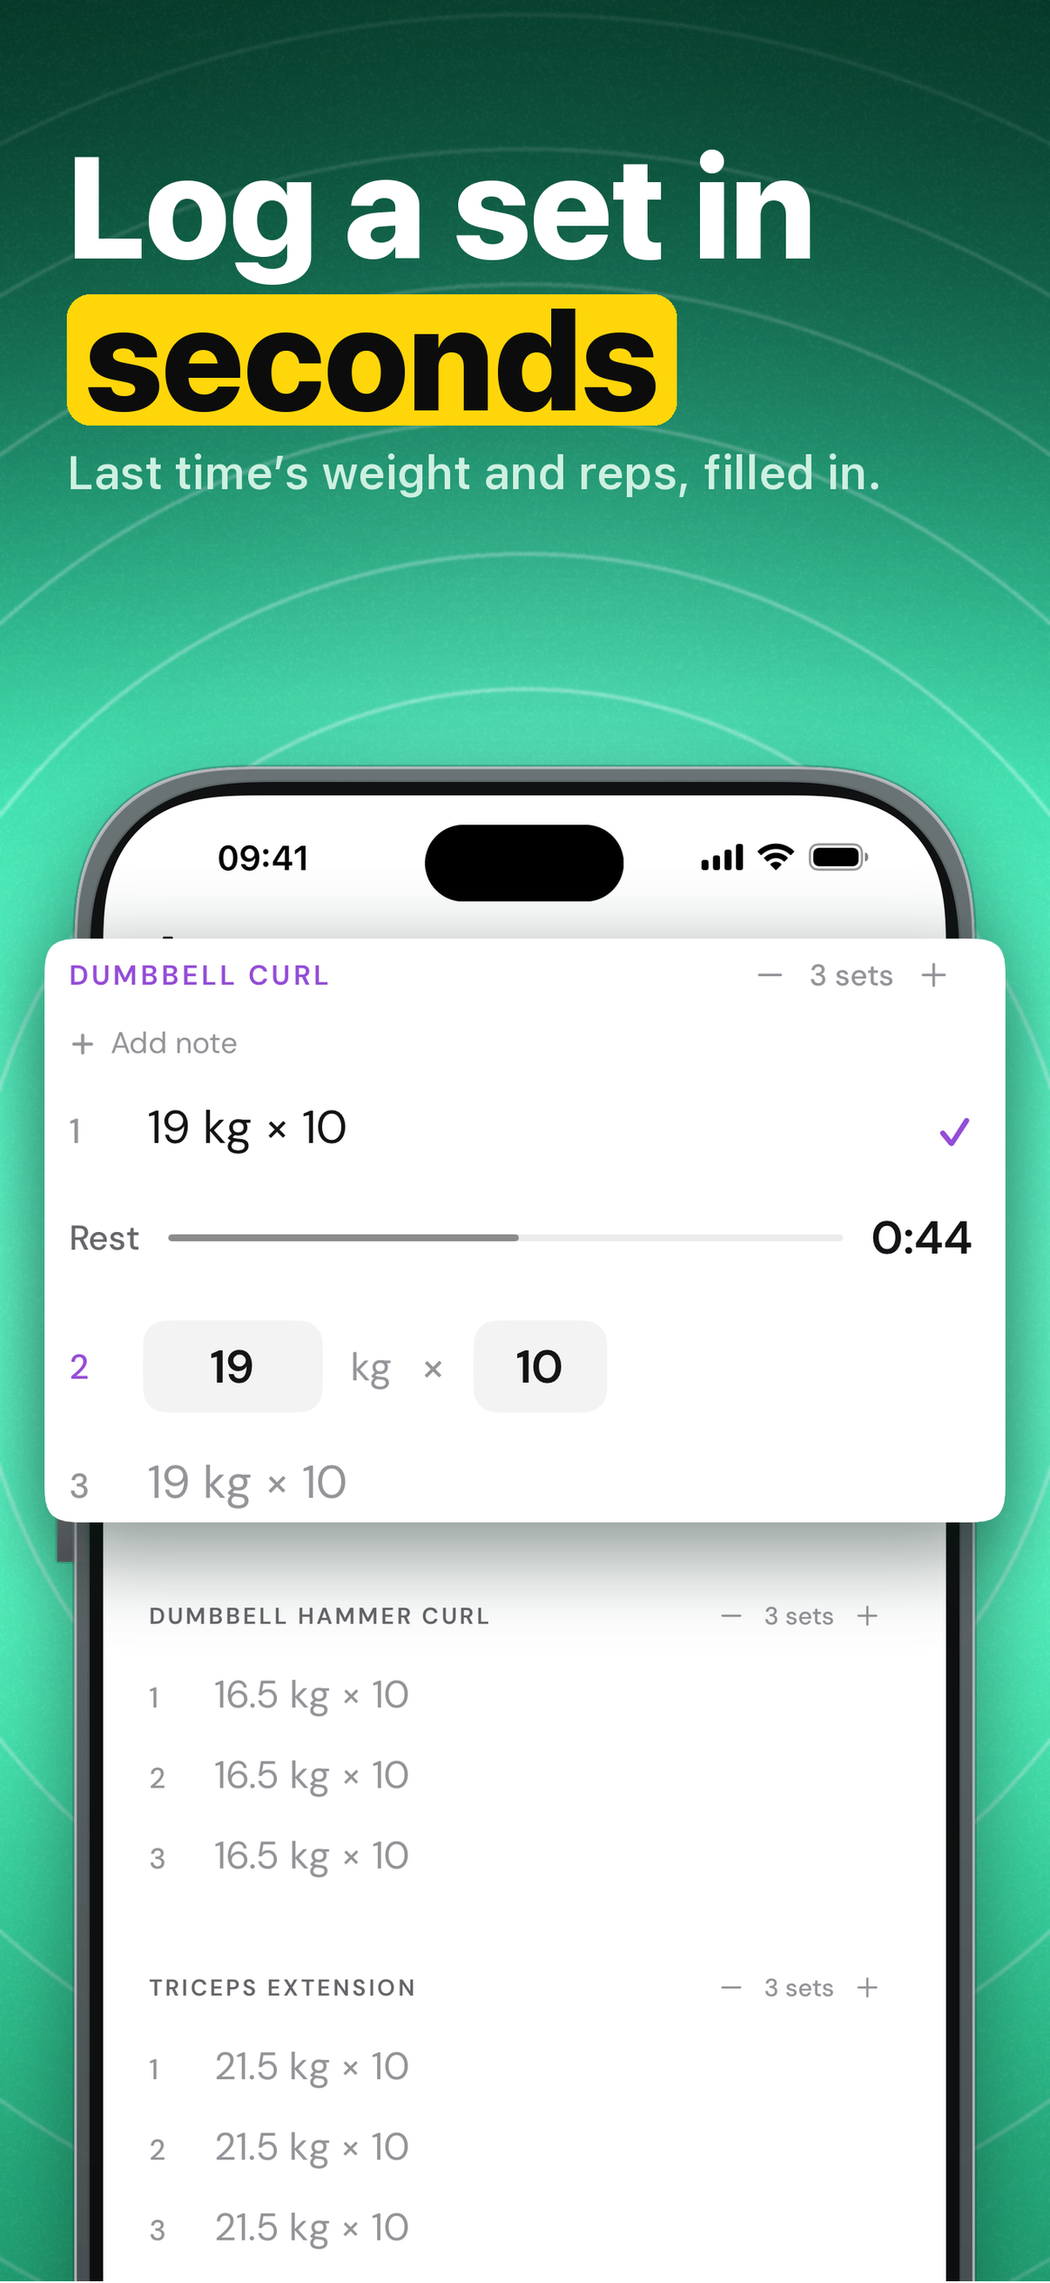
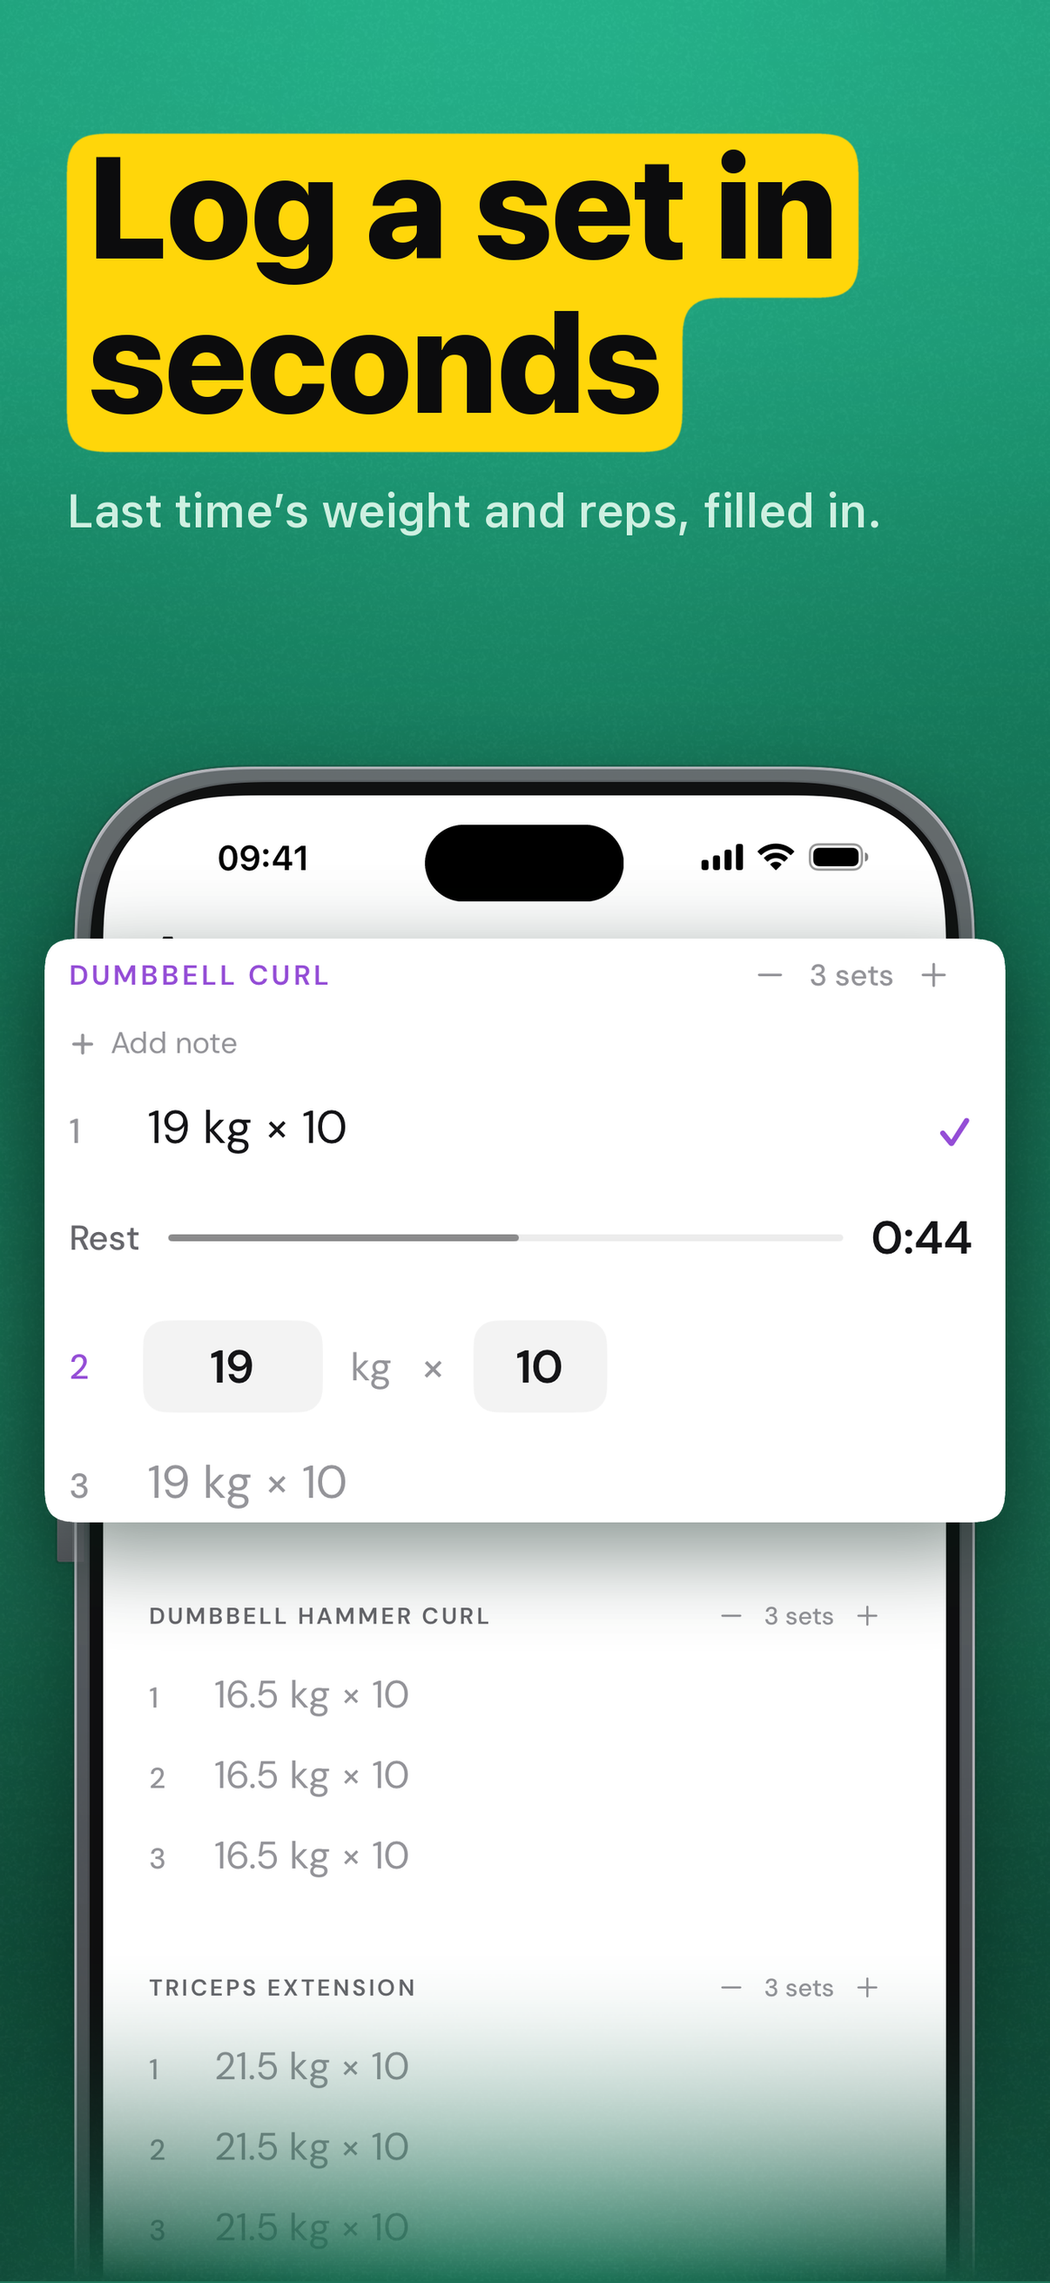
App Store screenshots: studio stage, one-shape headline, full phones
From the user's review of the emerald set:
- The background is a studio-lit emerald (soft light from above, haze,
  a floor glow, darker corners) and each phone rises out of an emerald
  mist at the foot. The glow's pulse rings are gone ("low effort and
  sloppy"); the best sets (Opal, Liftoff, Ladder, Hevy) use no lines.
- The whole headline sits in black on one yellow shape, its lines
  merged into a single rounded polygon like TikTok's caption
  background (--highlight word keeps the one-word box).
- Every slide shows the whole iPhone: slide 1 puts the real Home Screen
  in the phone with the shield below, slide 4 the app picker.
- Comparison sheets for the highlight choice in screenshots/store-options.

Not uploaded to App Store Connect.

diff --git a/scripts/store-slides.py b/scripts/store-slides.py
@@ -85,6 +85,8 @@ def _wrap(draw, text, f, max_w=TEXT_W):
 def fitted_size(text, size=204, min_size=150, lines=2):
     """The largest headline size (in 4-px steps) that sets `text` in `lines` lines inside the margins."""
     draw = ImageDraw.Draw(Image.new("RGB", (8, 8)))
+    if HIGHLIGHT == "all":
+        text = " ".join("*" + w.replace("*", "") + "*" for w in text.split(" ") if w)
     s = size
     while s >= min_size:
         f = k.sf(s, weight=820)
@@ -96,12 +98,17 @@ def fitted_size(text, size=204, min_size=150, lines=2):
 
 
 HEAD_SIZE = None  # set in main(): one size for the whole set, the largest every headline fits
+HIGHLIGHT = "all"  # the whole headline on one yellow shape (the user, 9 Nov 2026); "word" boxes one word (--highlight word)
 
 
 def headline(canvas, text, y, size=None, min_size=150, align="left", lines=2):
     """White display type with *accent* words set in a paper box (consecutive accent words share one
     box, which sits inside the margins and clear of its neighbours). Returns the bottom y."""
     draw = ImageDraw.Draw(canvas)
+    whole = HIGHLIGHT == "all"
+    if whole:
+        # Every line in its own yellow box, like TikTok's caption style.
+        text = " ".join("*" + w.replace("*", "") + "*" if w != "\n" else w for w in text.replace("\n", " \n ").split(" ") if w)
     s = size or HEAD_SIZE or 200
     while True:
         f = k.sf(s, weight=820)
@@ -111,10 +118,14 @@ def headline(canvas, text, y, size=None, min_size=150, align="left", lines=2):
         s -= 4
         if s < min_size:
             raise ValueError(f"{text!r} doesn't fit in {lines} lines")
-    lh = round(f.size * 1.06)
+    lh = round(f.size * (1.08 if whole else 1.06))
     space = draw.textlength(" ", font=f)
     padx, pady = round(f.size * 0.13), round(f.size * 0.10)
     cap_top, base = f.getbbox("H")[1], f.getbbox("H")[3]
+    if whole:
+        return _headline_block(canvas, rows, y, f, lh, space, cap_top, base, align)
+    top_pad, bottom_pad = pady, pady
+    last_bottom = y
     cy = y
     for words in rows:
         lw = _line_width(draw, words, f)
@@ -135,15 +146,57 @@ def headline(canvas, text, y, size=None, min_size=150, align="left", lines=2):
                 j = i
                 while j + 1 < len(xs) and xs[j + 1][2]:
                     j += 1
-                box = (xs[i][0] - padx, cy + cap_top - pady, xs[j][1] + padx, cy + base + pady)
-                draw.rounded_rectangle(box, round(f.size * 0.16), fill=YELLOW)
+                box = (xs[i][0] - padx, cy + cap_top - top_pad, xs[j][1] + padx, cy + base + bottom_pad)
+                draw.rounded_rectangle(box, round(f.size * (0.13 if whole else 0.16)), fill=YELLOW)
+                last_bottom = max(last_bottom, box[3])
                 i = j + 1
             else:
                 i += 1
         for (x0, _, acc), (w, _) in zip(xs, words):
             draw.text((x0, cy), w, font=f, fill=INK if acc else WHITE)
         cy += lh
-    return cy
+    return max(cy, last_bottom + 10) if whole else cy
+
+
+def _headline_block(canvas, rows, y, f, lh, space, cap_top, base, align):
+    """The whole headline on ONE yellow shape: each line's box, overlapping the next, merged and
+    smoothed into a single polygon (rounded outside corners, a soft curve where a shorter line meets
+    a longer one), with the words in black on top. Returns the shape's bottom."""
+    draw = ImageDraw.Draw(canvas)
+    padx = round(f.size * 0.15)
+    top_pad, bottom_pad = round(f.size * 0.16), round(f.size * 0.27)
+    lines, cy = [], y
+    for words in rows:
+        widths = [draw.textlength(w, font=f) for w, _ in words]
+        lw = sum(widths) + space * (len(words) - 1)
+        x = MARGIN + padx if align == "left" else MARGIN + (TEXT_W - lw) / 2
+        lines.append((x, cy, lw, words, widths))
+        cy += lh
+    # The union of the line boxes, drawn 3x for smooth edges.
+    k3 = 3
+    x_min = min(x for x, *_ in lines) - padx
+    x_max = max(x + lw for x, _, lw, *_ in lines) + padx
+    y_min = lines[0][1] + cap_top - top_pad
+    y_max = lines[-1][1] + base + bottom_pad
+    pad = round(f.size * 0.4)
+    bw, bh = round(x_max - x_min) + 2 * pad, round(y_max - y_min) + 2 * pad
+    m = Image.new("L", (bw * k3, bh * k3), 0)
+    dm = ImageDraw.Draw(m)
+    for x, ly, lw, _, _ in lines:
+        dm.rectangle(((x - padx - x_min + pad) * k3, (ly + cap_top - top_pad - y_min + pad) * k3,
+                      (x + lw + padx - x_min + pad) * k3, (ly + base + bottom_pad - y_min + pad) * k3), fill=255)
+    # Blur and threshold: convex corners round off, concave corners fill with a matching curve.
+    r = f.size * 0.11 * k3
+    m = m.filter(ImageFilter.GaussianBlur(r)).point(lambda v: 255 if v >= 128 else 0)
+    m = m.filter(ImageFilter.GaussianBlur(k3 * 0.6)).resize((bw, bh), Image.LANCZOS)
+    ox, oy = round(x_min - pad), round(y_min - pad)
+    canvas.paste(Image.new("RGB", (bw, bh), YELLOW), (ox, oy), m)
+    for x, ly, lw, words, widths in lines:
+        cx = x
+        for (w, _), ww in zip(words, widths):
+            draw.text((cx, ly), w, font=f, fill=INK)
+            cx += ww + space
+    return round(y_max) + 12
 
 
 def subline(canvas, text, y, align="left", size=58, min_size=50):
@@ -157,7 +210,7 @@ def subline(canvas, text, y, align="left", size=58, min_size=50):
     return bottom
 
 
-BG = "glow"  # 9 Nov 2026: emerald, never flat (scripts/store_bg.py)
+BG = "studio"  # 9 Nov 2026: emerald, never flat, no line patterns (scripts/store_bg.py)
 SLIDE_NO = 1
 # Gym photos for the 'photo' stage: crops of the Unsplash photos the carousels already use
 # (docs/marketing/carousels/*/SOURCES.md), the parts no caption covers. (path, box)
@@ -179,10 +232,16 @@ def _grain(img, amount=10, seed=0):
     return ImageChops.add(img, ImageChops.subtract(noise, Image.new("RGB", (W, H), (128, 128, 128))), 1, 0)
 
 
+LAST_STAGE = None
+POST = []  # drawn after the foot's mist (things that must stay crisp, like slide 4's fact pills)
+
+
 def base_stage():
+    global LAST_STAGE
     import store_bg
     if BG in store_bg.STYLES:
-        return store_bg.STYLES[BG](SLIDE_NO)
+        LAST_STAGE = store_bg.STYLES[BG](SLIDE_NO)
+        return LAST_STAGE.copy()
     if BG == "depth":
         # Emerald with depth: lighter at the top left, deep at the foot, a soft light behind the
         # phone and fine grain.
@@ -275,7 +334,7 @@ def slide_lock():
     # What opening one shows (the shield), lifted over the Home Screen's empty lower half.
     box = (60, 560, 1260, 1520)
     cw = W - 2 * 64
-    card(c, shield, box, 64, top + round(860 * s), cw, r=60, op=0.55)
+    card(c, shield, box, 64, top + round(800 * s), cw, r=60, op=0.55)
     return c
 
 
@@ -346,7 +405,7 @@ def slide_choose():
     # Apple's app picker, in the phone; the facts float over its lower part.
     sw, top = 1080, 790
     phone(c, shot, (W - sw) // 2, top, sw)
-    fact_rows(c, ["Locks only during workouts", "Works offline in the gym"], 2584, size=52, h=106)
+    POST.append(lambda img: fact_rows(img, ["Locks only during workouts", "Works offline in the gym"], 2584, size=52, h=106))
     return c
 
 
@@ -415,7 +474,9 @@ HEADLINES = ["No *scrolling* between sets", "Rest on your *Lock Screen*", "Log a
 
 
 def main():
-    global HEAD_SIZE, BG, SLIDE_NO, OUT
+    global HEAD_SIZE, BG, SLIDE_NO, OUT, HIGHLIGHT
+    if "--highlight" in sys.argv:
+        HIGHLIGHT = sys.argv[sys.argv.index("--highlight") + 1]
     if "--bg" in sys.argv:
         BG = sys.argv[sys.argv.index("--bg") + 1]
     if "--out" in sys.argv:
@@ -432,6 +493,15 @@ def main():
             continue
         SLIDE_NO = i
         img = fn()
+        if BG == "studio" and LAST_STAGE is not None:
+            # The phone rises out of the stage's own light at the foot instead of being cut by the edge.
+            mist_h = 420
+            g = Image.linear_gradient("L").resize((W, mist_h)).point(lambda v: round(255 * (v / 255) ** 1.7))
+            mask = Image.new("L", (W, H), 0)
+            mask.paste(g, (0, H - mist_h))
+            img = Image.composite(LAST_STAGE, img, mask)
+        while POST:
+            POST.pop(0)(img)
         if only:
             os.makedirs(os.path.join(OUT, "6.9"), exist_ok=True)
             img.save(os.path.join(OUT, "6.9", name + ".png"))

diff --git a/scripts/store_bg.py b/scripts/store_bg.py
@@ -385,5 +385,41 @@ def giant_type(slide_no):
     return grain(img, 7, slide_no)
 
 
+# ---------- studio (fourth round, after the user called the rings 'low effort and sloppy') ----------
+#
+# What the best sets do (Opal, Liftoff, Ladder, Hevy, ScreenZen): no line patterns at all. A smooth stage
+# lit like a photo studio, and depth from light, shadow and mist: the phone rises out of a soft haze at
+# the foot instead of being cut by the slide's edge.
+
+def _soft(size, box, blur):
+    m = Image.new("L", size, 0)
+    ImageDraw.Draw(m).ellipse(box, fill=255)
+    return m.filter(ImageFilter.GaussianBlur(blur))
+
+
+def studio(slide_no):
+    sw, sh = W // S, H // S
+    img = _vgrad(sw, sh, (12, 112, 80), (3, 36, 25))
+    # A softbox above: the light falls on the headline and fades down the slide.
+    img = _light(img, _soft((sw, sh), (-sw * 0.25, -sh * 0.42, sw * 1.25, sh * 0.30), 60), (40, 186, 134), 0.62)
+    # Haze behind the phone, wide and soft.
+    img = _light(img, _soft((sw, sh), (-sw * 0.10, sh * 0.42, sw * 1.10, sh * 0.80), 70), (70, 220, 165), 0.38)
+    # A pool of light on the floor beneath it.
+    img = _light(img, _soft((sw, sh), (sw * 0.02, sh * 0.88, sw * 0.98, sh * 1.10), 40), (60, 215, 160), 0.45)
+    # Darker corners, like a lens.
+    v = Image.new("L", (sw, sh), 255)
+    ImageDraw.Draw(v).ellipse((-sw * 0.30, -sh * 0.12, sw * 1.30, sh * 1.12), fill=0)
+    img = Image.composite(Image.new("RGB", (sw, sh), (1, 24, 16)), img, v.filter(ImageFilter.GaussianBlur(45)).point(lambda x: round(x * 0.55)))
+    img = img.resize((W, H), Image.BICUBIC)
+    return grain(img, 6, slide_no)
+
+
+def studio_mist(canvas, height=520, colour=(6, 64, 45)):
+    """Over the finished slide: the foot fades into an emerald mist, so the phone rises out of it."""
+    g = Image.linear_gradient("L").resize((W, height)).point(lambda v: round(255 * (v / 255) ** 1.6))
+    canvas.paste(Image.new("RGB", (W, height), colour), (0, H - height), g)
+    return canvas
+
+
 STYLES = {"aurora": aurora, "mark": mark, "spot": spot, "ripple": ripple, "aurora_bold": aurora_bold, "plates": plates,
-          "glow": glow, "streaks": streaks, "giant_type": giant_type}
+          "glow": glow, "streaks": streaks, "giant_type": giant_type, "studio": studio}

diff --git a/docs/listing.md b/docs/listing.md
@@ -97,17 +97,17 @@ People reach the page from TikTok, Instagram and YouTube (14 of the last 21 days
 
 The new set, in `screenshots/store-emerald/` (6.9, 6.3 and 6.1 inch; strip `screenshots/store-emerald-overview.png`), made by `python3 scripts/store-slides.py` (drawing in `scripts/store_kit.py`):
 
-| # | Headline (boxed word) | Second line | Shows |
+| # | Headline | Second line | Shows |
 |---|---|---|---|
-| 1 | No **scrolling** between sets | Your apps lock until you tap Finish. | The real iPhone Home Screen mid-workout (store-2026-11-02), lock badges over the hourglassed feeds, Spotify open; under it the shield ("You're mid-workout.") |
-| 2 | Rest on your **Lock Screen** | Nothing to unlock. Nothing to scroll. | The rest Live Activity on the Lock Screen (new capture, `store-2026-11-09/lock-rest.png`), lifted out larger |
-| 3 | Log a set in **seconds** | Last time's weight and reps, filled in. | The workout mid-rest, set 2 filled in |
-| 4 | Feeds off. **Music** on. | You choose the apps. We never see which. | Apple's picker, Spotify unticked; "Locks only during workouts", "Works offline in the gym" |
-| 5 | Same reps. **More** weight. | Every lift compared like for like. | Bench press before and after, same reps |
-| 6 | Watch your month **fill up** | Every gym day in its split's color. | October's calendar in split colors |
-| 7 | **Lock in** for push day | Home shows the split that's up next. | Home: Up next Push, Start workout |
+| 1 | No scrolling between sets | Your apps lock until you tap Finish. | The real iPhone Home Screen mid-workout (store-2026-11-02), lock badges over the hourglassed feeds, Spotify open; under it the shield ("You're mid-workout.") |
+| 2 | Rest on your Lock Screen | Nothing to unlock. Nothing to scroll. | The rest Live Activity on the Lock Screen (new capture, `store-2026-11-09/lock-rest.png`), lifted out larger |
+| 3 | Log a set in seconds | Last time's weight and reps, filled in. | The workout mid-rest, set 2 filled in |
+| 4 | Feeds off. Music on. | You choose the apps. We never see which. | Apple's picker, Spotify unticked; "Locks only during workouts", "Works offline in the gym" |
+| 5 | Same reps. More weight. | Every lift compared like for like. | Bench press before and after, same reps |
+| 6 | Watch your month fill up | Every gym day in its split's color. | October's calendar in split colors |
+| 7 | Lock in for push day | Home shows the split that's up next. | Home: Up next Push, Start workout |
 
-Rules it keeps: an emerald stage that is never flat (the user, 9 Nov: "emerald but it shouldn't be a flat color"): deep emerald, darker at the edges, a bright mint glow behind each phone with pulse rings spreading from it (`glow` in `scripts/store_bg.py`; the other looks tried that day (after a flat emerald first version), emerald depth, gym photo, ink to emerald, aurora, giant kettlebell, spotlight, ripple, weight plates, light streaks and giant type, are side by side in the sheets in `screenshots/store-options/`; re-render any of them with `python3 scripts/store-slides.py --bg <look> --only 1,2,3 --out store-options/<look>`). White headlines with one word in a yellow box with black type (the user's call), one headline size for the set (180 px). The phone is Apple's own iPhone 18 Pro Max outline, side buttons and display corners, from the Simulator's vector artwork on this Mac (`place_device` in `scripts/store_kit.py`, rendered into the git-ignored `scripts/bezels/sim/`), with the iPhone 18 Pro's Dynamic Island proportions. Real screens enlarged and sharp, no blur; other apps' names and icons only inside real screens; no ratings, user counts, prices or outcome numbers; every number is sample data. The Snapchat icon on slide 1 is its Halloween icon, as it was on the real iPhone on 2 Nov.
+Rules it keeps: an emerald stage that is never flat (the user, 9 Nov: "emerald but it shouldn't be a flat color"): lit like a photo studio: a soft light from above, haze behind the phone, a pool of light on the floor and darker corners, and the phone rising out of an emerald mist at the foot instead of being cut by the slide's edge (`studio` in `scripts/store_bg.py`, after looking again at Opal, Liftoff, Ladder, Hevy and ScreenZen, none of which use line patterns; the user called the first version's pulse rings "low effort and sloppy"; the other looks tried that day (after a flat emerald first version), emerald depth, gym photo, ink to emerald, aurora, giant kettlebell, spotlight, ripple, weight plates, light streaks and giant type, are side by side in the sheets in `screenshots/store-options/`; re-render any of them with `python3 scripts/store-slides.py --bg <look> --only 1,2,3 --out store-options/<look>`). The whole headline in black on one yellow shape, the lines merged into a single polygon with rounded corners like TikTok's caption background (the user's call; `--highlight word` boxes one word instead), one headline size for the set (180 px). The phone is Apple's own iPhone 18 Pro Max outline, side buttons and display corners, from the Simulator's vector artwork on this Mac (`place_device` in `scripts/store_kit.py`, rendered into the git-ignored `scripts/bezels/sim/`), with the iPhone 18 Pro's Dynamic Island proportions. Real screens enlarged and sharp, no blur; other apps' names and icons only inside real screens; no ratings, user counts, prices or outcome numbers; every number is sample data. The Snapchat icon on slide 1 is its Halloween icon, as it was on the real iPhone on 2 Nov.
 
 To ship it: the default page's screenshots change with a new version, or now through a Product Page Optimization treatment that is then applied to the original page (screenshots only, can't be undone). Compare by source in App Analytics after two to three weeks. `screenshots/store-review/index.html` (served by the `mockups` launch config) shows each set in the search row and on the product page, light and dark, next to ScrollToll and GYMTIME.
 

diff --git a/VALIDATION.md b/VALIDATION.md
@@ -3,7 +3,7 @@
 
 ## App Store screenshots, the emerald set (9 November 2026, not committed or uploaded)
 
-Seven new slides in `screenshots/store-emerald/` (1320×2868, 1206×2622, 1179×2556), made by `scripts/store-slides.py` from real captures; why and what each shows is in docs/listing.md (Screenshots, 9 Nov 2026). One new capture: `screenshots/store-2026-11-09/lock-rest.png`, the rest Live Activity on the Lock Screen in the current white design (Gymblock Ad simulator, iPhone 18 Pro, iOS 27.0, `-workoutStage rest -storeShots YES`, status bar time `2026-11-14T03:56:00.000Z` for 09:41 in Nepal time; the Lock Screen's date reads Tue 14 Nov). Second round the same day, from the user's feedback (the phone's shape was wrong, the flat colour was boring, the highlight should be yellow with black words): the phone is now Apple's iPhone 18 Pro Max outline from the Simulator's artwork, the stage is the `glow` look, the highlight is yellow. Checked by eye at full size, as a strip, and as the App Store search row at true iPhone size in light and dark next to the live set. The simulator was shut down afterwards. Nothing was uploaded.
+Seven new slides in `screenshots/store-emerald/` (1320×2868, 1206×2622, 1179×2556), made by `scripts/store-slides.py` from real captures; why and what each shows is in docs/listing.md (Screenshots, 9 Nov 2026). One new capture: `screenshots/store-2026-11-09/lock-rest.png`, the rest Live Activity on the Lock Screen in the current white design (Gymblock Ad simulator, iPhone 18 Pro, iOS 27.0, `-workoutStage rest -storeShots YES`, status bar time `2026-11-14T03:56:00.000Z` for 09:41 in Nepal time; the Lock Screen's date reads Tue 14 Nov). Second round the same day, from the user's feedback (the phone's shape was wrong, the flat colour was boring, the highlight should be yellow with black words): the phone is now Apple's iPhone 18 Pro Max outline from the Simulator's artwork, the stage is the `studio` look (smooth light, haze and a mist at the foot; the `glow` look's rings were rejected as sloppy), the highlight is yellow, and every slide shows the whole phone. Checked by eye at full size, as a strip, and as the App Store search row at true iPhone size in light and dark next to the live set. The simulator was shut down afterwards. Nothing was uploaded.
 
 ## Device rows never landed (8 November 2026, fixed)
 
